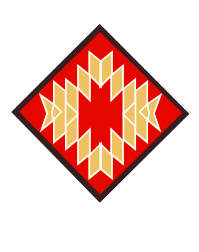
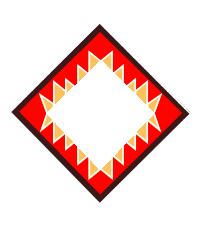
styling

Changed region(s): [[0.0905, 0.1111, 0.9347, 0.7778]]

diff --git a/sites/all/themes/subclean/css/style.css b/sites/all/themes/subclean/css/style.css
@@ -73,7 +73,7 @@ a:hover {
 /* word, deed pages */
 .page-the-word h1,
 .page-the-word #logo img,
-.page-the-word #site-slogan
+.page-the-word #site-slogan,
 .page-the-deed h1,
 .page-the-deed #logo img,
 .page-the-deed #site-slogan {
@@ -199,15 +199,74 @@ body.front .node-page p a {
   text-transform: uppercase;
 }
 
-.node-teaser-card {
-  width: 260px;
-  height: 455px;
+#cards-container-inner .node-teaser-card {
+  width: 200px;
+  height: 350px;
+  padding-top: 110px;
+  padding-right: 44px;
   overflow: hidden;
+  background: url(../img/list-separator.png) no-repeat right 66px;
 }
 
+#cards-container-inner {
+  color: #fff;
+}
 #cards-container-inner .column {
   width: 260px;
   float: left;
+}
+
+#cards-container-inner .diamond {
+  height: 252px;
+  width: 200px;
+  top: -176px;
+  position: relative;
+  background-repeat: no-repeat;
+  background-position: center;
+}
+#cards-container-inner .style-one .diamond {
+  background-image: url(../img/list-item-1.png);
+}
+#cards-container-inner .style-two .diamond {
+  background-image: url(../img/list-item-2.png);
+  background-position: center 8px;
+}
+#cards-container-inner #node-card-add .diamond {
+  background-image: url(../img/list-item-0.png);
+}
+
+#cards-container-inner #node-card-add a {
+  color: #fff;
+  text-transform: uppercase;
+  font-weight: bold;
+}
+
+#cards-container-inner .field-type-text-long {
+  padding-top: 10px;
+}
+#cards-container-inner #node-card-add .field-type-text-long {
+  width: 100px;
+  margin: 0 auto;
+  border: 1px solid #fff;
+  top: 15px;
+  position: relative;
+  padding: 6px;
+}
+
+#cards-container-inner .field-name-field-card-photo .field-item,
+#cards-container-inner .field-name-field-text,
+#cards-container-inner .submitted {
+  text-align: center;
+}
+#cards-container-inner .submitted {
+  padding-top: 0;
+  text-decoration: underline;
+}
+#cards-container-inner .field-name-field-card-photo .field-item img {
+  border-radius: 55px;
+}
+#cards-container-inner .field-name-field-card-photo {
+  height: 200px;
 }
 
 .popup-container {
@@ -300,30 +359,6 @@ body.front .node-page p a {
   text-transform: uppercase;
   font-size: 18px;
 }
-/*.field-name-field-card-photo .field-item {*/
-  /*-webkit-transform: rotate(-45deg);*/
-  /*-moz-transform: rotate(-45deg);*/
-  /*transform: rotate(-45deg);*/
-  /*float: left;*/
-  /*margin: 40px 0 34px 59px;*/
-  /*overflow: hidden;*/
-  /*border-radius: 0px;*/
-/*}*/
-/*.field-name-field-card-photo .field-item img {*/
-  /*-webkit-transform: rotate(45deg) scale(1.5);*/
-  /*-moz-transform: rotate(45deg) scale(1.5);*/
-  /*transform: rotate(45deg) scale(1.5);*/
-  /*-webkit-transform: rotate(45deg);*/
-  /*-moz-transform: rotate(45deg);*/
-  /*transform: rotate(45deg);*/
-  /*float: left;*/
-  /*-webkit-backface-visibility: hidden;*/
-  /*-moz-backface-visibility: hidden;*/
-  /*backface-visibility: hidden;*/
-/*}*/
-/*.node-teaser-card .node-content .submitted {*/
-  /*clear: both;*/
-/*}*/
 
 #add-form form .form-item-files-file {
   position: relative;

diff --git a/sites/all/themes/subclean/templates/field--field_card_photo.tpl.php b/sites/all/themes/subclean/templates/field--field_card_photo.tpl.php
@@ -1,0 +1,65 @@
+<?php
+
+/**
+ * @file field.tpl.php
+ * Default template implementation to display the value of a field.
+ *
+ * This file is not used and is here as a starting point for customization only.
+ * @see theme_field()
+ *
+ * Available variables:
+ * - $items: An array of field values. Use render() to output them.
+ * - $label: The item label.
+ * - $label_hidden: Whether the label display is set to 'hidden'.
+ * - $classes: String of classes that can be used to style contextually through
+ *   CSS. It can be manipulated through the variable $classes_array from
+ *   preprocess functions. The default values can be one or more of the
+ *   following:
+ *   - field: The current template type, i.e., "theming hook".
+ *   - field-name-[field_name]: The current field name. For example, if the
+ *     field name is "field_description" it would result in
+ *     "field-name-field-description".
+ *   - field-type-[field_type]: The current field type. For example, if the
+ *     field type is "text" it would result in "field-type-text".
+ *   - field-label-[label_display]: The current label position. For example, if
+ *     the label position is "above" it would result in "field-label-above".
+ *
+ * Other variables:
+ * - $element['#object']: The entity to which the field is attached.
+ * - $element['#view_mode']: View mode, e.g. 'full', 'teaser'...
+ * - $element['#field_name']: The field name.
+ * - $element['#field_type']: The field type.
+ * - $element['#field_language']: The field language.
+ * - $element['#field_translatable']: Whether the field is translatable or not.
+ * - $element['#label_display']: Position of label display, inline, above, or
+ *   hidden.
+ * - $field_name_css: The css-compatible field name.
+ * - $field_type_css: The css-compatible field type.
+ * - $classes_array: Array of html class attribute values. It is flattened
+ *   into a string within the variable $classes.
+ *
+ * @see template_preprocess_field()
+ * @see theme_field()
+ *
+ * @ingroup themeable
+ */
+?>
+<!--
+THIS FILE IS NOT USED AND IS HERE AS A STARTING POINT FOR CUSTOMIZATION ONLY.
+See http://api.drupal.org/api/function/theme_field/7 for details.
+After copying this file to your theme's folder and customizing it, remove this
+HTML comment.
+-->
+<div class="<?php print $classes; ?>"<?php print $attributes; ?>>
+  <?php if (!$label_hidden): ?>
+    <div class="field-label"<?php print $title_attributes; ?>><?php print $label ?>:&nbsp;</div>
+  <?php endif; ?>
+  <div class="field-items"<?php print $content_attributes; ?>>
+    <?php foreach ($items as $delta => $item): ?>
+      <div class="field-item <?php print $delta % 2 ? 'odd' : 'even'; ?>"<?php print $item_attributes[$delta]; ?>>
+        <?php print render($item); ?>
+        <div class="diamond"></div>
+      </div>
+    <?php endforeach; ?>
+  </div>
+</div>

diff --git a/sites/all/themes/subclean/templates/field.tpl.php b/sites/all/themes/subclean/templates/field.tpl.php
@@ -1,0 +1,62 @@
+<?php
+
+/**
+ * @file field.tpl.php
+ * Default template implementation to display the value of a field.
+ *
+ * This file is not used and is here as a starting point for customization only.
+ * @see theme_field()
+ *
+ * Available variables:
+ * - $items: An array of field values. Use render() to output them.
+ * - $label: The item label.
+ * - $label_hidden: Whether the label display is set to 'hidden'.
+ * - $classes: String of classes that can be used to style contextually through
+ *   CSS. It can be manipulated through the variable $classes_array from
+ *   preprocess functions. The default values can be one or more of the
+ *   following:
+ *   - field: The current template type, i.e., "theming hook".
+ *   - field-name-[field_name]: The current field name. For example, if the
+ *     field name is "field_description" it would result in
+ *     "field-name-field-description".
+ *   - field-type-[field_type]: The current field type. For example, if the
+ *     field type is "text" it would result in "field-type-text".
+ *   - field-label-[label_display]: The current label position. For example, if
+ *     the label position is "above" it would result in "field-label-above".
+ *
+ * Other variables:
+ * - $element['#object']: The entity to which the field is attached.
+ * - $element['#view_mode']: View mode, e.g. 'full', 'teaser'...
+ * - $element['#field_name']: The field name.
+ * - $element['#field_type']: The field type.
+ * - $element['#field_language']: The field language.
+ * - $element['#field_translatable']: Whether the field is translatable or not.
+ * - $element['#label_display']: Position of label display, inline, above, or
+ *   hidden.
+ * - $field_name_css: The css-compatible field name.
+ * - $field_type_css: The css-compatible field type.
+ * - $classes_array: Array of html class attribute values. It is flattened
+ *   into a string within the variable $classes.
+ *
+ * @see template_preprocess_field()
+ * @see theme_field()
+ *
+ * @ingroup themeable
+ */
+?>
+<!--
+THIS FILE IS NOT USED AND IS HERE AS A STARTING POINT FOR CUSTOMIZATION ONLY.
+See http://api.drupal.org/api/function/theme_field/7 for details.
+After copying this file to your theme's folder and customizing it, remove this
+HTML comment.
+-->
+<div class="<?php print $classes; ?>"<?php print $attributes; ?>>
+  <?php if (!$label_hidden): ?>
+    <div class="field-label"<?php print $title_attributes; ?>><?php print $label ?>:&nbsp;</div>
+  <?php endif; ?>
+  <div class="field-items"<?php print $content_attributes; ?>>
+    <?php foreach ($items as $delta => $item): ?>
+      <div class="field-item <?php print $delta % 2 ? 'odd' : 'even'; ?>"<?php print $item_attributes[$delta]; ?>><?php print render($item); ?></div>
+    <?php endforeach; ?>
+  </div>
+</div>

diff --git a/sites/all/modules/word/word-add-word.tpl.php b/sites/all/modules/word/word-add-word.tpl.php
@@ -1,6 +1,18 @@
 <div class="node node-card node-teaser node-type-card node-teaser-card style-one" id="node-card-add">
   <div class="node-content clearfix">
-    <div class="field field-name-field-card-photo field-type-image"><div class="field-items"><div class="field-item even"><img typeof="foaf:Image" src="<?php print $directory . '/images/profile.jpg'; ?>" width="110" height="110"></div></div></div>
-    <div class="field field-name-field-text field-type-text-long"><div class="field-items"><div class="field-item even"><a href="#">Зігріти словом</a></div></div></div>
+    <div class="field field-name-field-card-photo field-type-image">
+      <div class="field-items">
+        <div class="field-item even">
+          <img typeof="foaf:Image" src="<?php print $directory . '/images/profile.jpg'; ?>" width="110" height="110">
+          <div class="diamond"></div>
+        </div>
+      </div>
+    </div>
+    <div class="field field-name-field-text field-type-text-long">
+      <div class="field-items"><div class="field-item even">
+          <a href="#">Зігріти словом</a>
+        </div>
+      </div>
+    </div>
   </div>
 </div>
